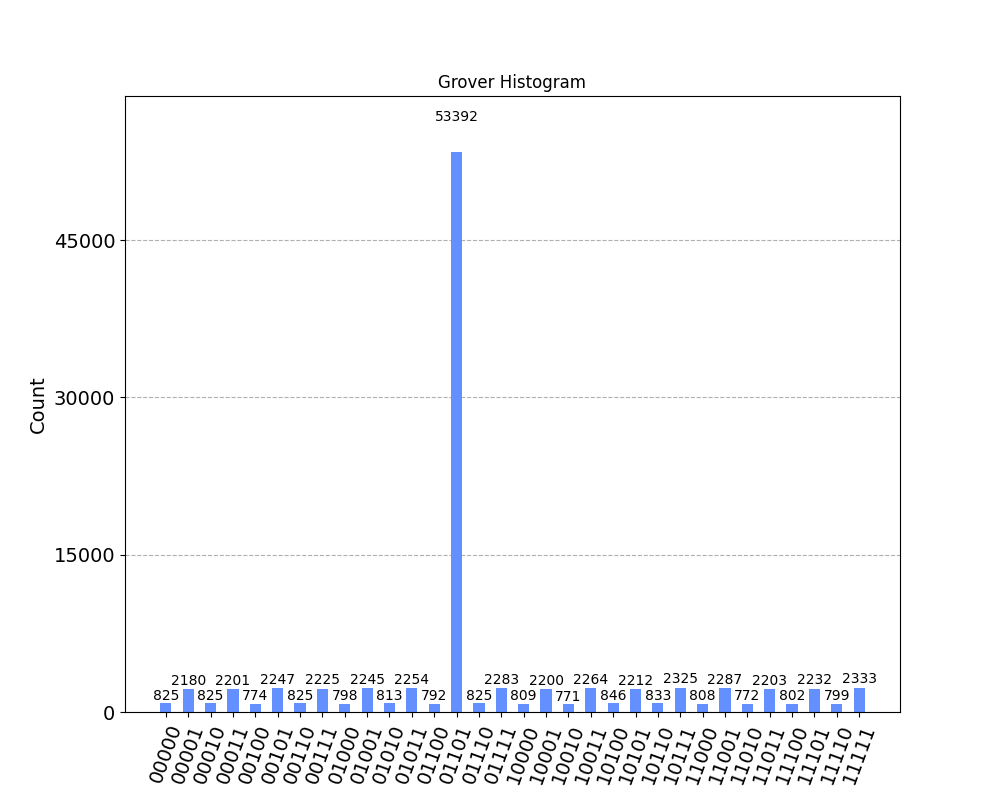
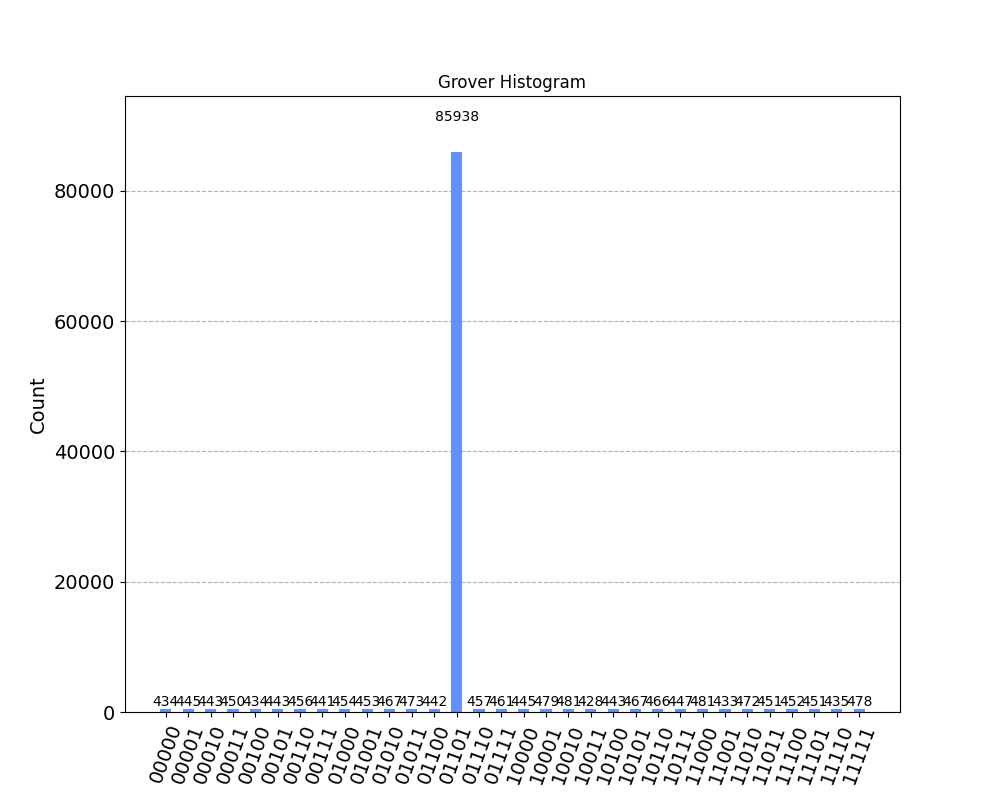
Q1 with desired oracle done by using gates

diff --git a/TP2/oracle.py b/TP2/oracle.py
@@ -5,18 +5,18 @@ from qiskit_aer import QasmSimulator
 def oracle(target):
     # Create quantum program that find 01101 by reversing its phase
     x = QuantumRegister(len(target), name='X')  # 5 qubits index 0 is the right most qubit
-    fx = QuantumRegister(1, name='fx')
-    oracle_circuit = QuantumCircuit(x, fx, name='oracle')
+    ancilla = QuantumRegister(1, name='fx')  # has to be init to |->
+    oracle_circuit = QuantumCircuit(x, ancilla, name='oracle')
 
+    # set x qubits so that the target will control the gate
     for i in range(len(target)):
         correct_index = len(target) - i - 1
         if target[correct_index] == '0':
             oracle_circuit.x(x[i])
 
-    oracle_circuit.mct(x[:], fx)
+    oracle_circuit.mct(x[:], ancilla)  # automatically we get a kickback cause ancilla was in |->
 
-    oracle_circuit.cz(fx, x[0])
-
+    # reset x qubits to their original state
     for i in range(len(target)):
         correct_index = len(target) - i - 1
         if target[correct_index] == '0':

diff --git a/TP2/grover.py b/TP2/grover.py
@@ -19,18 +19,22 @@ matrix = -I + 2 * np_a
 simulator = QasmSimulator()
 # Create quantum program that find 01101 by reversing its phase
 x = QuantumRegister(len(target), name='x')  # 5 qubits index 0 is the right most qubit
-fx = QuantumRegister(1, name='ands_results')
+ancilla = QuantumRegister(1, name='fx')
 res = ClassicalRegister(len(target), name='Target')
 
-grover = QuantumCircuit(x, res, fx, name='grover')
+grover = QuantumCircuit(x, res, ancilla, name='grover')
 grover.h(x)
 grover.barrier()
 for j in range(int((2 ** len(target)) ** (1 / 2))):
-    grover.append(curr_oracle, x[:] + fx[:])
-    grover.x(fx)
+    grover.reset(ancilla)
+    grover.x(ancilla)
+    grover.h(ancilla)  # init fx to |->
+
+    grover.append(curr_oracle, x[:] + ancilla[:])
     grover.barrier()
     inversion_about_mean = qi.Operator(matrix.tolist())
     grover.unitary(inversion_about_mean, x, label='Inversion about mean')
+    grover.barrier()
 
 # Map the quantum measurement to the classical bits
 grover.measure(x, res)
